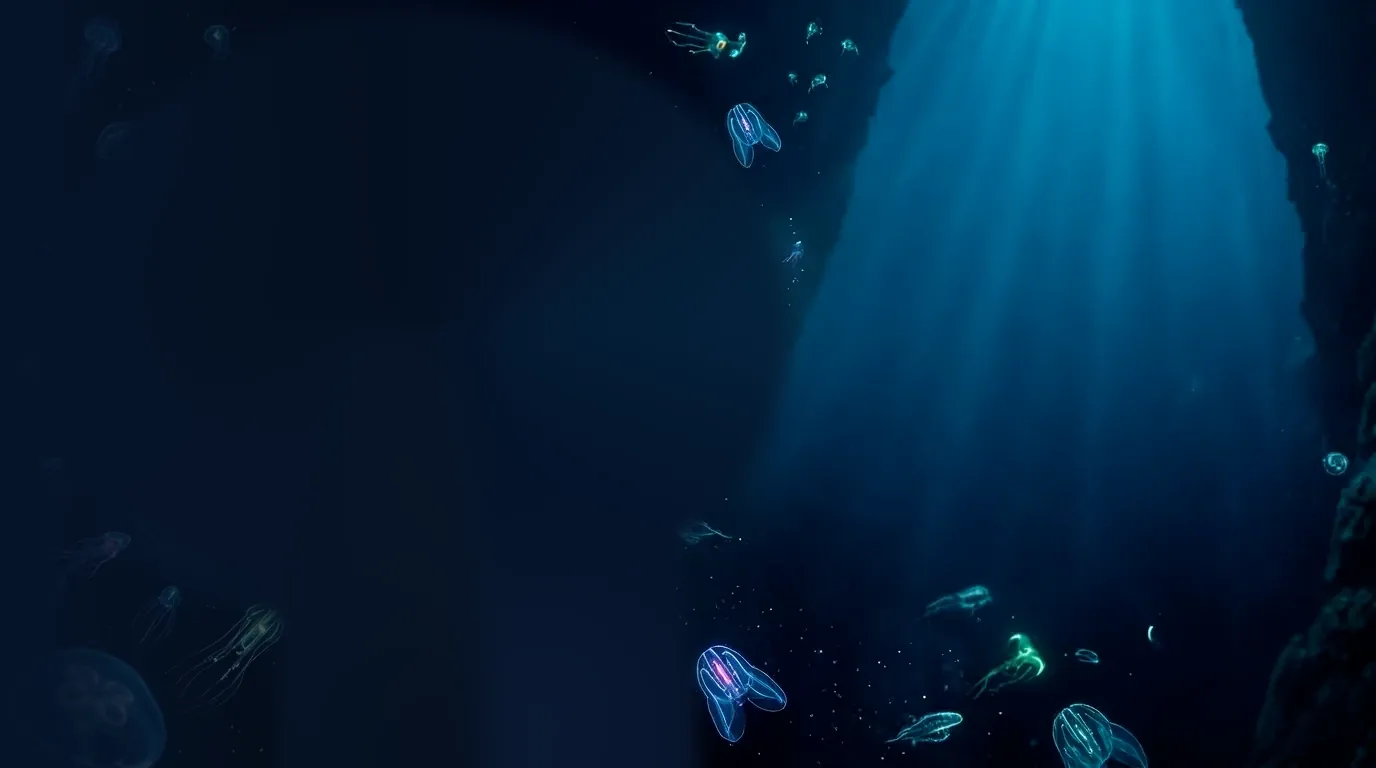
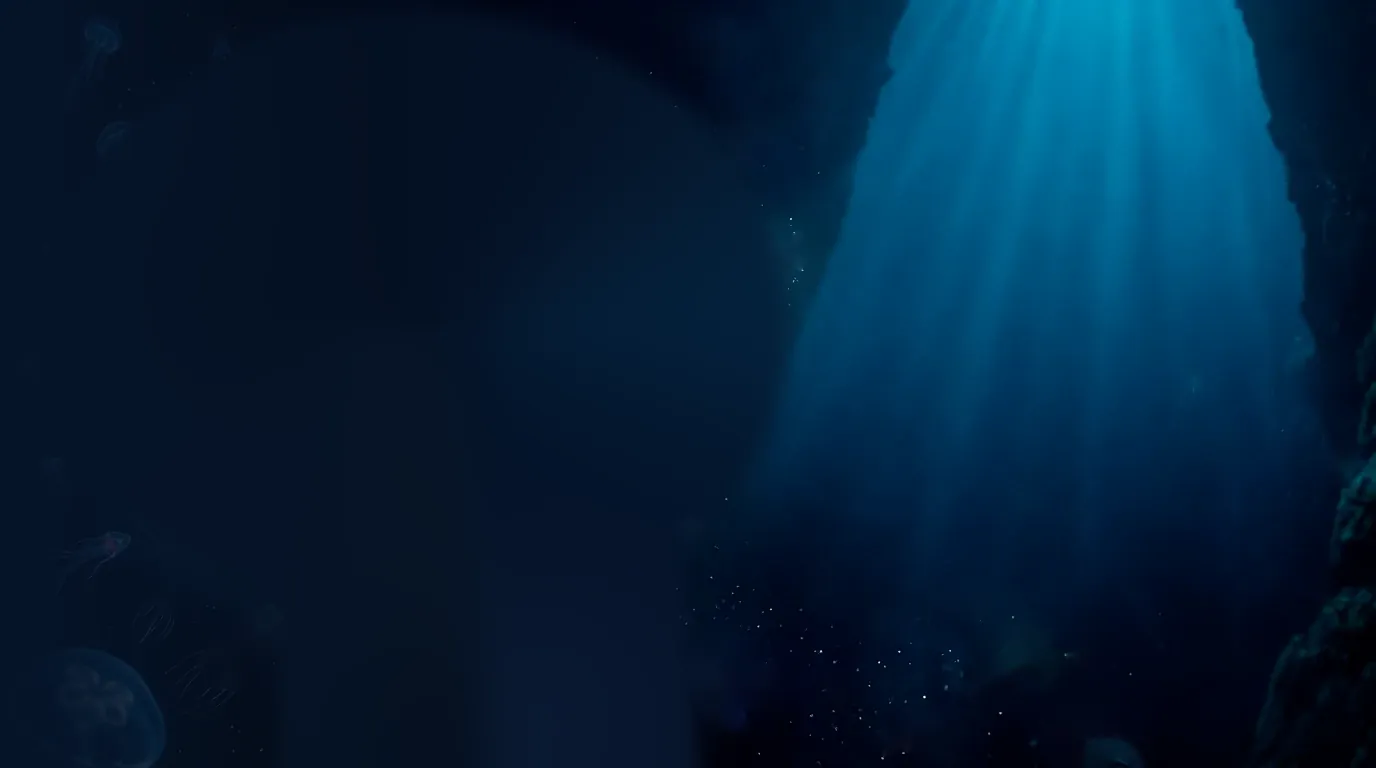
Catalog header: the background's sea life floats; a few drift in front
- The 24 small creatures painted into the background picture are lifted
  out as their own layers (assets/hero/s-*.webp) and the water is
  painted back in behind them; each drifts and rocks from where it was
- A front layer: three of them, slightly blurred, cross slowly in front
  of Marley's jellyfish and the diver

Claude-Session: https://claude.ai/code/session_0195hiXiVZY5DpQ2CCYEr2vL

diff --git a/index.html b/index.html
@@ -4,7 +4,7 @@
 <meta charset="UTF-8">
 <meta name="viewport" content="width=device-width, initial-scale=1">
 <title>Parts Catalog — Christian Gehrke</title>
-<link rel="stylesheet" href="css/catalog.css?v=1793680000">
+<link rel="stylesheet" href="css/catalog.css?v=1793690000">
 <link rel="stylesheet" href="css/logo.css?v=6">
 <link rel="icon" href="/favicon.ico?v=2" sizes="any"><link rel="icon" href="/favicon.svg?v=2" type="image/svg+xml"><link rel="apple-touch-icon" href="/apple-touch-icon.png?v=2">
 <script>/* Logo season from the calendar (the homepage sets it from its own scene). */document.documentElement.dataset.season=["winter","winter","spring","spring","spring","summer","summer","summer","fall","fall","fall","winter"][new Date().getMonth()];</script>
@@ -13,7 +13,7 @@
 <body class="deep">
 
 <header class="cat-head cat-hero">
-  <div class="hero-stage" aria-hidden="true"><div class="hero-sea"></div><div class="hero-shaft"></div><span class="hero-critter hc-fish hc-far"><span class="hc-lure"></span><img src="assets/hero/c-fish.webp" alt=""><img class="hc-glow" src="assets/hero/c-fish-glow.webp" alt=""></span><span class="hero-critter hc-larva hc-far"><img src="assets/hero/c-larva.webp" alt=""><img class="hc-glow" src="assets/hero/c-larva-glow.webp" alt=""></span><span class="hero-critter hc-comb hc-far"><img src="assets/hero/c-comb.webp" alt=""><img class="hc-glow" src="assets/hero/c-comb-glow.webp" alt=""></span><span class="hero-critter hc-moon hc-far"><img src="assets/hero/c-moon.webp" alt=""><img class="hc-glow" src="assets/hero/c-moon-glow.webp" alt=""></span><span class="hero-critter hc-blue hc-far"><img src="assets/hero/c-blue.webp" alt=""><img class="hc-glow" src="assets/hero/c-blue-glow.webp" alt=""></span><svg class="hero-snow-l"><g class="hero-snow" fill="#cfefff"><circle cx="61.1%" cy="4.3%" r="1.0" style="animation-duration:22.1s;animation-delay:-15.3s"/><circle cx="77.5%" cy="8.7%" r="0.9" style="animation-duration:24.4s;animation-delay:-15.2s"/><circle cx="45.1%" cy="40.2%" r="1.6" style="animation-duration:20.9s;animation-delay:-0.5s"/><circle cx="79.9%" cy="32.9%" r="1.0" style="animation-duration:16.6s;animation-delay:-11.5s"/><circle cx="32.5%" cy="8.9%" r="1.2" style="animation-duration:15.2s;animation-delay:-20.4s"/><circle cx="2.5%" cy="78.1%" r="1.4" style="animation-duration:20.0s;animation-delay:-18.4s"/><circle cx="24.8%" cy="73.8%" r="1.0" style="animation-duration:16.8s;animation-delay:-25.1s"/><circle cx="40.1%" cy="37.3%" r="1.5" style="animation-duration:18.4s;animation-delay:-17.4s"/><circle cx="17.1%" cy="84.3%" r="0.9" style="animation-duration:14.6s;animation-delay:-25.4s"/><circle cx="17.3%" cy="94.7%" r="1.6" style="animation-duration:21.3s;animation-delay:-0.3s"/><circle cx="6.1%" cy="20.9%" r="1.0" style="animation-duration:21.3s;animation-delay:-25.1s"/><circle cx="35.5%" cy="14.1%" r="1.2" style="animation-duration:15.6s;animation-delay:-2.3s"/><circle cx="55.6%" cy="69.6%" r="0.7" style="animation-duration:19.4s;animation-delay:-18.3s"/><circle cx="76.4%" cy="38.3%" r="1.5" style="animation-duration:16.0s;animation-delay:-18.6s"/><circle cx="77.2%" cy="88.0%" r="1.1" style="animation-duration:15.2s;animation-delay:-1.3s"/><circle cx="52.9%" cy="17.3%" r="1.2" style="animation-duration:15.0s;animation-delay:-20.3s"/><circle cx="22.2%" cy="1.3%" r="0.8" style="animation-duration:19.5s;animation-delay:-14.5s"/><circle cx="38.8%" cy="17.3%" r="1.1" style="animation-duration:25.4s;animation-delay:-13.9s"/><circle cx="94.1%" cy="2.9%" r="1.6" style="animation-duration:24.7s;animation-delay:-14.2s"/><circle cx="52.3%" cy="53.7%" r="1.5" style="animation-duration:14.8s;animation-delay:-16.7s"/><circle cx="54.2%" cy="30.0%" r="1.3" style="animation-duration:22.6s;animation-delay:-2.7s"/><circle cx="70.0%" cy="45.4%" r="1.1" style="animation-duration:21.6s;animation-delay:-1.4s"/><circle cx="60.3%" cy="37.3%" r="1.5" style="animation-duration:16.8s;animation-delay:-21.4s"/><circle cx="73.0%" cy="62.5%" r="1.5" style="animation-duration:14.4s;animation-delay:-15.5s"/><circle cx="61.3%" cy="67.8%" r="1.0" style="animation-duration:14.8s;animation-delay:-4.9s"/><circle cx="60.8%" cy="18.1%" r="0.7" style="animation-duration:18.3s;animation-delay:-12.2s"/><circle cx="53.6%" cy="2.6%" r="1.4" style="animation-duration:18.0s;animation-delay:-20.4s"/><circle cx="0.9%" cy="95.4%" r="1.2" style="animation-duration:25.7s;animation-delay:-25.6s"/><circle cx="83.3%" cy="10.6%" r="0.9" style="animation-duration:16.8s;animation-delay:-20.3s"/><circle cx="19.2%" cy="22.1%" r="0.7" style="animation-duration:15.4s;animation-delay:-24.4s"/><circle cx="97.6%" cy="37.2%" r="1.3" style="animation-duration:19.6s;animation-delay:-13.6s"/><circle cx="36.9%" cy="63.5%" r="0.8" style="animation-duration:17.1s;animation-delay:-13.5s"/><circle cx="19.7%" cy="43.9%" r="1.5" style="animation-duration:14.3s;animation-delay:-2.7s"/><circle cx="80.0%" cy="5.8%" r="0.9" style="animation-duration:24.2s;animation-delay:-15.7s"/><circle cx="22.1%" cy="5.9%" r="0.9" style="animation-duration:17.6s;animation-delay:-20.8s"/><circle cx="97.6%" cy="78.6%" r="1.5" style="animation-duration:25.2s;animation-delay:-22.8s"/><circle cx="92.0%" cy="96.8%" r="0.7" style="animation-duration:17.8s;animation-delay:-6.4s"/><circle cx="60.4%" cy="49.2%" r="0.9" style="animation-duration:24.0s;animation-delay:-10.4s"/><circle cx="20.9%" cy="27.6%" r="1.1" style="animation-duration:21.3s;animation-delay:-14.8s"/><circle cx="44.0%" cy="18.6%" r="1.0" style="animation-duration:17.9s;animation-delay:-4.4s"/><circle cx="54.4%" cy="18.9%" r="1.3" style="animation-duration:21.9s;animation-delay:-3.6s"/><circle cx="62.5%" cy="33.8%" r="1.0" style="animation-duration:21.3s;animation-delay:-19.8s"/><circle cx="88.4%" cy="73.4%" r="0.8" style="animation-duration:20.5s;animation-delay:-8.7s"/><circle cx="1.9%" cy="55.2%" r="1.1" style="animation-duration:24.4s;animation-delay:-8.4s"/><circle cx="83.4%" cy="51.4%" r="0.7" style="animation-duration:22.6s;animation-delay:-7.4s"/><circle cx="53.4%" cy="7.1%" r="0.6" style="animation-duration:25.1s;animation-delay:-1.1s"/><circle cx="14.9%" cy="16.3%" r="0.7" style="animation-duration:23.9s;animation-delay:-25.9s"/><circle cx="64.9%" cy="39.5%" r="1.5" style="animation-duration:20.1s;animation-delay:-3.5s"/><circle cx="69.0%" cy="35.9%" r="0.9" style="animation-duration:17.8s;animation-delay:-10.0s"/><circle cx="18.2%" cy="61.3%" r="1.5" style="animation-duration:20.8s;animation-delay:-0.2s"/><circle cx="68.4%" cy="2.0%" r="1.1" style="animation-duration:24.4s;animation-delay:-17.6s"/><circle cx="90.8%" cy="75.5%" r="0.9" style="animation-duration:15.7s;animation-delay:-11.7s"/><circle cx="68.0%" cy="23.2%" r="0.9" style="animation-duration:23.0s;animation-delay:-9.0s"/><circle cx="60.1%" cy="54.5%" r="1.5" style="animation-duration:14.3s;animation-delay:-4.8s"/><circle cx="77.9%" cy="66.9%" r="0.7" style="animation-duration:15.6s;animation-delay:-5.5s"/><circle cx="54.3%" cy="90.2%" r="0.8" style="animation-duration:16.4s;animation-delay:-17.8s"/><circle cx="42.3%" cy="84.7%" r="1.6" style="animation-duration:25.2s;animation-delay:-18.6s"/><circle cx="49.6%" cy="6.1%" r="1.4" style="animation-duration:18.8s;animation-delay:-12.1s"/><circle cx="63.2%" cy="96.4%" r="1.2" style="animation-duration:25.0s;animation-delay:-25.1s"/><circle cx="8.5%" cy="35.5%" r="1.5" style="animation-duration:23.2s;animation-delay:-25.2s"/><circle cx="18.6%" cy="53.1%" r="1.5" style="animation-duration:20.5s;animation-delay:-17.4s"/><circle cx="97.5%" cy="17.3%" r="0.7" style="animation-duration:24.2s;animation-delay:-15.1s"/><circle cx="20.0%" cy="83.2%" r="0.9" style="animation-duration:15.6s;animation-delay:-7.7s"/><circle cx="3.6%" cy="40.6%" r="1.4" style="animation-duration:19.4s;animation-delay:-25.1s"/><circle cx="4.2%" cy="17.3%" r="0.7" style="animation-duration:20.9s;animation-delay:-5.2s"/><circle cx="66.7%" cy="52.3%" r="1.2" style="animation-duration:24.1s;animation-delay:-20.5s"/><circle cx="92.2%" cy="15.2%" r="1.0" style="animation-duration:25.5s;animation-delay:-10.3s"/><circle cx="28.6%" cy="48.2%" r="0.8" style="animation-duration:24.2s;animation-delay:-16.5s"/><circle cx="9.5%" cy="96.4%" r="1.1" style="animation-duration:17.0s;animation-delay:-15.9s"/><circle cx="95.0%" cy="34.7%" r="0.6" style="animation-duration:16.4s;animation-delay:-1.5s"/></g></svg><span class="hero-critter hc-fish"><span class="hc-lure"></span><img src="assets/hero/c-fish.webp" alt=""><img class="hc-glow" src="assets/hero/c-fish-glow.webp" alt=""></span><span class="hero-critter hc-larva"><img src="assets/hero/c-larva.webp" alt=""><img class="hc-glow" src="assets/hero/c-larva-glow.webp" alt=""></span><span class="hero-critter hc-comb"><img src="assets/hero/c-comb.webp" alt=""><img class="hc-glow" src="assets/hero/c-comb-glow.webp" alt=""></span><span class="hero-critter hc-moon"><img src="assets/hero/c-moon.webp" alt=""><img class="hc-glow" src="assets/hero/c-moon-glow.webp" alt=""></span><span class="hero-critter hc-blue"><img src="assets/hero/c-blue.webp" alt=""><img class="hc-glow" src="assets/hero/c-blue-glow.webp" alt=""></span><div class="hero-group hero-g-a hero-float"><svg class="hero-fx" viewBox="160 0 730 768" overflow="visible"><defs><radialGradient id="hLamp"><stop offset="0" stop-color="#eaf8ff" stop-opacity=".9"/><stop offset=".35" stop-color="#8fd8ff" stop-opacity=".4"/><stop offset="1" stop-color="#3aa0ff" stop-opacity="0"/></radialGradient><radialGradient id="hCube"><stop offset="0" stop-color="#c58bff" stop-opacity=".75"/><stop offset=".45" stop-color="#6fd6ff" stop-opacity=".3"/><stop offset="1" stop-color="#5a3cff" stop-opacity="0"/></radialGradient><radialGradient id="hJelly"><stop offset="0" stop-color="#7fffe0" stop-opacity=".42"/><stop offset=".6" stop-color="#2fd0c8" stop-opacity=".18"/><stop offset="1" stop-color="#0a8fb0" stop-opacity="0"/></radialGradient></defs><circle class="hero-glow hero-g-jelly" cx="538" cy="318" r="330" fill="url(#hJelly)"/></svg><img class="hero-jelly" src="assets/hero/jelly.webp?v=2" alt=""><img class="hero-dog" src="assets/hero/dog.webp" alt=""><svg class="hero-fx" viewBox="160 0 730 768" overflow="visible"><g fill="none" stroke="#bfeeff" stroke-width="1.6" opacity=".8"><circle class="hero-bub" cx="437" cy="70" r="2.8" style="--sw:-10px;animation-duration:8.9s;animation-delay:-0.9s"/><circle class="hero-bub" cx="464" cy="70" r="3.9" style="--sw:10px;animation-duration:9.2s;animation-delay:-0.4s"/><circle class="hero-bub" cx="562" cy="70" r="3.4" style="--sw:-10px;animation-duration:9.6s;animation-delay:-7.5s"/><circle class="hero-bub" cx="451" cy="70" r="3.7" style="--sw:-10px;animation-duration:8.2s;animation-delay:-9.1s"/></g></svg></div><div class="hero-group hero-g-b hero-diver"><img src="assets/hero/diver.webp" alt=""><img src="assets/hero/cube.webp" alt=""><svg class="hero-fx" viewBox="735 60 615 600" overflow="visible"><circle class="hero-glow hero-g-lamp" cx="920" cy="165" r="95" fill="url(#hLamp)"/><circle class="hero-glow hero-g-lamp2" cx="1158" cy="290" r="88" fill="url(#hLamp)"/><circle class="hero-glow hero-g-cube" cx="875" cy="520" r="150" fill="url(#hCube)"/><g fill="none" stroke="#bfeeff" stroke-width="1.6" opacity=".85"><circle class="hero-bub" cx="1014" cy="92" r="5.1" style="--sw:-14px;animation-duration:5.8s;animation-delay:-1.5s"/><circle class="hero-bub" cx="1006" cy="92" r="4.8" style="--sw:-14px;animation-duration:7.7s;animation-delay:-0.6s"/><circle class="hero-bub" cx="1031" cy="92" r="4.3" style="--sw:14px;animation-duration:7.1s;animation-delay:-3.6s"/><circle class="hero-bub" cx="995" cy="92" r="3.6" style="--sw:-14px;animation-duration:5.2s;animation-delay:-1.1s"/><circle class="hero-bub" cx="1034" cy="92" r="5.4" style="--sw:8px;animation-duration:7.4s;animation-delay:-7.1s"/><circle class="hero-bub" cx="998" cy="92" r="5.4" style="--sw:-14px;animation-duration:7.2s;animation-delay:-3.4s"/><circle class="hero-bub" cx="1034" cy="92" r="3.9" style="--sw:-14px;animation-duration:5.6s;animation-delay:-2.2s"/><circle class="hero-bub" cx="1177" cy="108" r="4.3" style="--sw:10px;animation-duration:5.5s;animation-delay:-3.3s"/><circle class="hero-bub" cx="1196" cy="108" r="2.8" style="--sw:-10px;animation-duration:6.2s;animation-delay:-5.9s"/><circle class="hero-bub" cx="1203" cy="108" r="2.5" style="--sw:-10px;animation-duration:7.8s;animation-delay:-1.6s"/><circle class="hero-bub" cx="1186" cy="108" r="2.5" style="--sw:-10px;animation-duration:5.8s;animation-delay:-4.3s"/><circle class="hero-bub" cx="1197" cy="108" r="2.7" style="--sw:10px;animation-duration:7.0s;animation-delay:-7.4s"/></g></svg></div></div>
+  <div class="hero-stage" aria-hidden="true"><div class="hero-sea"></div><div class="hero-shaft"></div><div class="hero-seafloat"><img class="sf" src="assets/hero/s-00.webp" alt="" style="left:57.92%;top:1.30%;width:2.54%;--dx:-1.3vh;--dy:-2.6vh;--r:-4deg;animation-duration:16.8s,3.8s;animation-delay:-0.3s,-3.3s"><img class="sf" src="assets/hero/s-01.webp" alt="" style="left:47.67%;top:1.69%;width:7.19%;--dx:1.6vh;--dy:-3.4vh;--r:4deg;animation-duration:17.5s,4.5s;animation-delay:-3.0s,-0.6s"><img class="sf" src="assets/hero/s-02.webp" alt="" style="left:14.24%;top:2.08%;width:2.91%;--dx:1.4vh;--dy:-1.6vh;--r:4deg;animation-duration:16.6s,6.3s;animation-delay:-3.2s,-1.9s"><img class="sf" src="assets/hero/s-03.webp" alt="" style="left:60.47%;top:3.91%;width:2.62%;--dx:0.7vh;--dy:-1.5vh;--r:4deg;animation-duration:21.5s,3.8s;animation-delay:-13.0s,-4.0s"><img class="sf" src="assets/hero/s-04.webp" alt="" style="left:56.61%;top:8.20%;width:1.96%;--dx:-1.0vh;--dy:-2.4vh;--r:-6deg;animation-duration:20.1s,6.8s;animation-delay:-16.4s,-5.7s"><img class="sf" src="assets/hero/s-05.webp" alt="" style="left:58.07%;top:8.46%;width:2.76%;--dx:-1.6vh;--dy:-2.8vh;--r:4deg;animation-duration:24.1s,6.5s;animation-delay:-12.2s,-2.5s"><img class="sf" src="assets/hero/s-06.webp" alt="" style="left:52.18%;top:12.24%;width:5.31%;--dx:-0.2vh;--dy:-3.1vh;--r:4deg;animation-duration:21.2s,4.4s;animation-delay:-16.9s,-0.5s"><img class="sf" src="assets/hero/s-07.webp" alt="" style="left:56.98%;top:13.28%;width:2.40%;--dx:1.6vh;--dy:-2.3vh;--r:6deg;animation-duration:19.6s,6.0s;animation-delay:-2.8s,-4.0s"><img class="sf" src="assets/hero/s-08.webp" alt="" style="left:94.69%;top:17.45%;width:2.54%;--dx:1.3vh;--dy:-2.0vh;--r:6deg;animation-duration:14.8s,4.5s;animation-delay:-5.3s,-4.5s"><img class="sf" src="assets/hero/s-09.webp" alt="" style="left:92.51%;top:18.88%;width:1.67%;--dx:0.2vh;--dy:-1.4vh;--r:-6deg;animation-duration:17.8s,6.4s;animation-delay:-12.6s,-1.7s"><img class="sf" src="assets/hero/s-10.webp" alt="" style="left:56.18%;top:30.21%;width:2.83%;--dx:1.2vh;--dy:-3.2vh;--r:-4deg;animation-duration:21.0s,4.5s;animation-delay:-0.5s,-2.1s"><img class="sf" src="assets/hero/s-11.webp" alt="" style="left:95.42%;top:57.68%;width:3.27%;--dx:1.5vh;--dy:-2.8vh;--r:4deg;animation-duration:15.0s,3.6s;animation-delay:-4.3s,-5.8s"><img class="sf" src="assets/hero/s-12.webp" alt="" style="left:49.06%;top:66.80%;width:4.87%;--dx:-0.3vh;--dy:-1.3vh;--r:-6deg;animation-duration:23.3s,4.5s;animation-delay:-4.5s,-2.7s"><img class="sf" src="assets/hero/s-13.webp" alt="" style="left:95.71%;top:72.27%;width:1.89%;--dx:-0.4vh;--dy:-1.3vh;--r:4deg;animation-duration:15.6s,5.5s;animation-delay:-5.7s,-2.7s"><img class="sf" src="assets/hero/s-14.webp" alt="" style="left:66.72%;top:75.00%;width:6.03%;--dx:1.0vh;--dy:-1.2vh;--r:-6deg;animation-duration:18.4s,5.0s;animation-delay:-3.8s,-5.5s"><img class="sf" src="assets/hero/s-15.webp" alt="" style="left:10.90%;top:75.39%;width:2.54%;--dx:-1.4vh;--dy:-1.8vh;--r:-4deg;animation-duration:15.4s,5.6s;animation-delay:-8.4s,-3.5s"><img class="sf" src="assets/hero/s-16.webp" alt="" style="left:14.24%;top:77.86%;width:6.61%;--dx:-1.5vh;--dy:-1.6vh;--r:4deg;animation-duration:17.9s,6.2s;animation-delay:-7.3s,-5.9s"><img class="sf" src="assets/hero/s-17.webp" alt="" style="left:82.70%;top:80.21%;width:1.82%;--dx:-0.8vh;--dy:-2.6vh;--r:-6deg;animation-duration:19.7s,4.3s;animation-delay:-8.8s,-3.9s"><img class="sf" src="assets/hero/s-18.webp" alt="" style="left:70.20%;top:81.12%;width:6.47%;--dx:-0.9vh;--dy:-3.1vh;--r:-6deg;animation-duration:19.1s,4.4s;animation-delay:-4.6s,-1.2s"><img class="sf" src="assets/hero/s-19.webp" alt="" style="left:49.93%;top:82.29%;width:7.99%;--dx:1.2vh;--dy:-3.2vh;--r:-6deg;animation-duration:16.8s,6.6s;animation-delay:-5.3s,-0.7s"><img class="sf" src="assets/hero/s-20.webp" alt="" style="left:77.40%;top:83.33%;width:3.12%;--dx:1.5vh;--dy:-2.0vh;--r:-6deg;animation-duration:20.8s,5.2s;animation-delay:-1.9s,-1.3s"><img class="sf" src="assets/hero/s-21.webp" alt="" style="left:59.96%;top:87.76%;width:1.89%;--dx:1.3vh;--dy:-1.4vh;--r:4deg;animation-duration:24.5s,4.5s;animation-delay:-11.5s,-5.4s"><img class="sf" src="assets/hero/s-22.webp" alt="" style="left:75.80%;top:90.36%;width:8.28%;--dx:-0.3vh;--dy:-3.0vh;--r:4deg;animation-duration:17.8s,4.7s;animation-delay:-7.0s,-3.0s"><img class="sf" src="assets/hero/s-23.webp" alt="" style="left:63.66%;top:91.41%;width:7.05%;--dx:-0.7vh;--dy:-2.1vh;--r:-4deg;animation-duration:24.3s,3.7s;animation-delay:-21.8s,-0.8s"></div><span class="hero-critter hc-fish hc-far"><span class="hc-lure"></span><img src="assets/hero/c-fish.webp" alt=""><img class="hc-glow" src="assets/hero/c-fish-glow.webp" alt=""></span><span class="hero-critter hc-larva hc-far"><img src="assets/hero/c-larva.webp" alt=""><img class="hc-glow" src="assets/hero/c-larva-glow.webp" alt=""></span><span class="hero-critter hc-comb hc-far"><img src="assets/hero/c-comb.webp" alt=""><img class="hc-glow" src="assets/hero/c-comb-glow.webp" alt=""></span><span class="hero-critter hc-moon hc-far"><img src="assets/hero/c-moon.webp" alt=""><img class="hc-glow" src="assets/hero/c-moon-glow.webp" alt=""></span><span class="hero-critter hc-blue hc-far"><img src="assets/hero/c-blue.webp" alt=""><img class="hc-glow" src="assets/hero/c-blue-glow.webp" alt=""></span><svg class="hero-snow-l"><g class="hero-snow" fill="#cfefff"><circle cx="61.1%" cy="4.3%" r="1.0" style="animation-duration:22.1s;animation-delay:-15.3s"/><circle cx="77.5%" cy="8.7%" r="0.9" style="animation-duration:24.4s;animation-delay:-15.2s"/><circle cx="45.1%" cy="40.2%" r="1.6" style="animation-duration:20.9s;animation-delay:-0.5s"/><circle cx="79.9%" cy="32.9%" r="1.0" style="animation-duration:16.6s;animation-delay:-11.5s"/><circle cx="32.5%" cy="8.9%" r="1.2" style="animation-duration:15.2s;animation-delay:-20.4s"/><circle cx="2.5%" cy="78.1%" r="1.4" style="animation-duration:20.0s;animation-delay:-18.4s"/><circle cx="24.8%" cy="73.8%" r="1.0" style="animation-duration:16.8s;animation-delay:-25.1s"/><circle cx="40.1%" cy="37.3%" r="1.5" style="animation-duration:18.4s;animation-delay:-17.4s"/><circle cx="17.1%" cy="84.3%" r="0.9" style="animation-duration:14.6s;animation-delay:-25.4s"/><circle cx="17.3%" cy="94.7%" r="1.6" style="animation-duration:21.3s;animation-delay:-0.3s"/><circle cx="6.1%" cy="20.9%" r="1.0" style="animation-duration:21.3s;animation-delay:-25.1s"/><circle cx="35.5%" cy="14.1%" r="1.2" style="animation-duration:15.6s;animation-delay:-2.3s"/><circle cx="55.6%" cy="69.6%" r="0.7" style="animation-duration:19.4s;animation-delay:-18.3s"/><circle cx="76.4%" cy="38.3%" r="1.5" style="animation-duration:16.0s;animation-delay:-18.6s"/><circle cx="77.2%" cy="88.0%" r="1.1" style="animation-duration:15.2s;animation-delay:-1.3s"/><circle cx="52.9%" cy="17.3%" r="1.2" style="animation-duration:15.0s;animation-delay:-20.3s"/><circle cx="22.2%" cy="1.3%" r="0.8" style="animation-duration:19.5s;animation-delay:-14.5s"/><circle cx="38.8%" cy="17.3%" r="1.1" style="animation-duration:25.4s;animation-delay:-13.9s"/><circle cx="94.1%" cy="2.9%" r="1.6" style="animation-duration:24.7s;animation-delay:-14.2s"/><circle cx="52.3%" cy="53.7%" r="1.5" style="animation-duration:14.8s;animation-delay:-16.7s"/><circle cx="54.2%" cy="30.0%" r="1.3" style="animation-duration:22.6s;animation-delay:-2.7s"/><circle cx="70.0%" cy="45.4%" r="1.1" style="animation-duration:21.6s;animation-delay:-1.4s"/><circle cx="60.3%" cy="37.3%" r="1.5" style="animation-duration:16.8s;animation-delay:-21.4s"/><circle cx="73.0%" cy="62.5%" r="1.5" style="animation-duration:14.4s;animation-delay:-15.5s"/><circle cx="61.3%" cy="67.8%" r="1.0" style="animation-duration:14.8s;animation-delay:-4.9s"/><circle cx="60.8%" cy="18.1%" r="0.7" style="animation-duration:18.3s;animation-delay:-12.2s"/><circle cx="53.6%" cy="2.6%" r="1.4" style="animation-duration:18.0s;animation-delay:-20.4s"/><circle cx="0.9%" cy="95.4%" r="1.2" style="animation-duration:25.7s;animation-delay:-25.6s"/><circle cx="83.3%" cy="10.6%" r="0.9" style="animation-duration:16.8s;animation-delay:-20.3s"/><circle cx="19.2%" cy="22.1%" r="0.7" style="animation-duration:15.4s;animation-delay:-24.4s"/><circle cx="97.6%" cy="37.2%" r="1.3" style="animation-duration:19.6s;animation-delay:-13.6s"/><circle cx="36.9%" cy="63.5%" r="0.8" style="animation-duration:17.1s;animation-delay:-13.5s"/><circle cx="19.7%" cy="43.9%" r="1.5" style="animation-duration:14.3s;animation-delay:-2.7s"/><circle cx="80.0%" cy="5.8%" r="0.9" style="animation-duration:24.2s;animation-delay:-15.7s"/><circle cx="22.1%" cy="5.9%" r="0.9" style="animation-duration:17.6s;animation-delay:-20.8s"/><circle cx="97.6%" cy="78.6%" r="1.5" style="animation-duration:25.2s;animation-delay:-22.8s"/><circle cx="92.0%" cy="96.8%" r="0.7" style="animation-duration:17.8s;animation-delay:-6.4s"/><circle cx="60.4%" cy="49.2%" r="0.9" style="animation-duration:24.0s;animation-delay:-10.4s"/><circle cx="20.9%" cy="27.6%" r="1.1" style="animation-duration:21.3s;animation-delay:-14.8s"/><circle cx="44.0%" cy="18.6%" r="1.0" style="animation-duration:17.9s;animation-delay:-4.4s"/><circle cx="54.4%" cy="18.9%" r="1.3" style="animation-duration:21.9s;animation-delay:-3.6s"/><circle cx="62.5%" cy="33.8%" r="1.0" style="animation-duration:21.3s;animation-delay:-19.8s"/><circle cx="88.4%" cy="73.4%" r="0.8" style="animation-duration:20.5s;animation-delay:-8.7s"/><circle cx="1.9%" cy="55.2%" r="1.1" style="animation-duration:24.4s;animation-delay:-8.4s"/><circle cx="83.4%" cy="51.4%" r="0.7" style="animation-duration:22.6s;animation-delay:-7.4s"/><circle cx="53.4%" cy="7.1%" r="0.6" style="animation-duration:25.1s;animation-delay:-1.1s"/><circle cx="14.9%" cy="16.3%" r="0.7" style="animation-duration:23.9s;animation-delay:-25.9s"/><circle cx="64.9%" cy="39.5%" r="1.5" style="animation-duration:20.1s;animation-delay:-3.5s"/><circle cx="69.0%" cy="35.9%" r="0.9" style="animation-duration:17.8s;animation-delay:-10.0s"/><circle cx="18.2%" cy="61.3%" r="1.5" style="animation-duration:20.8s;animation-delay:-0.2s"/><circle cx="68.4%" cy="2.0%" r="1.1" style="animation-duration:24.4s;animation-delay:-17.6s"/><circle cx="90.8%" cy="75.5%" r="0.9" style="animation-duration:15.7s;animation-delay:-11.7s"/><circle cx="68.0%" cy="23.2%" r="0.9" style="animation-duration:23.0s;animation-delay:-9.0s"/><circle cx="60.1%" cy="54.5%" r="1.5" style="animation-duration:14.3s;animation-delay:-4.8s"/><circle cx="77.9%" cy="66.9%" r="0.7" style="animation-duration:15.6s;animation-delay:-5.5s"/><circle cx="54.3%" cy="90.2%" r="0.8" style="animation-duration:16.4s;animation-delay:-17.8s"/><circle cx="42.3%" cy="84.7%" r="1.6" style="animation-duration:25.2s;animation-delay:-18.6s"/><circle cx="49.6%" cy="6.1%" r="1.4" style="animation-duration:18.8s;animation-delay:-12.1s"/><circle cx="63.2%" cy="96.4%" r="1.2" style="animation-duration:25.0s;animation-delay:-25.1s"/><circle cx="8.5%" cy="35.5%" r="1.5" style="animation-duration:23.2s;animation-delay:-25.2s"/><circle cx="18.6%" cy="53.1%" r="1.5" style="animation-duration:20.5s;animation-delay:-17.4s"/><circle cx="97.5%" cy="17.3%" r="0.7" style="animation-duration:24.2s;animation-delay:-15.1s"/><circle cx="20.0%" cy="83.2%" r="0.9" style="animation-duration:15.6s;animation-delay:-7.7s"/><circle cx="3.6%" cy="40.6%" r="1.4" style="animation-duration:19.4s;animation-delay:-25.1s"/><circle cx="4.2%" cy="17.3%" r="0.7" style="animation-duration:20.9s;animation-delay:-5.2s"/><circle cx="66.7%" cy="52.3%" r="1.2" style="animation-duration:24.1s;animation-delay:-20.5s"/><circle cx="92.2%" cy="15.2%" r="1.0" style="animation-duration:25.5s;animation-delay:-10.3s"/><circle cx="28.6%" cy="48.2%" r="0.8" style="animation-duration:24.2s;animation-delay:-16.5s"/><circle cx="9.5%" cy="96.4%" r="1.1" style="animation-duration:17.0s;animation-delay:-15.9s"/><circle cx="95.0%" cy="34.7%" r="0.6" style="animation-duration:16.4s;animation-delay:-1.5s"/></g></svg><span class="hero-critter hc-fish"><span class="hc-lure"></span><img src="assets/hero/c-fish.webp" alt=""><img class="hc-glow" src="assets/hero/c-fish-glow.webp" alt=""></span><span class="hero-critter hc-larva"><img src="assets/hero/c-larva.webp" alt=""><img class="hc-glow" src="assets/hero/c-larva-glow.webp" alt=""></span><span class="hero-critter hc-comb"><img src="assets/hero/c-comb.webp" alt=""><img class="hc-glow" src="assets/hero/c-comb-glow.webp" alt=""></span><span class="hero-critter hc-moon"><img src="assets/hero/c-moon.webp" alt=""><img class="hc-glow" src="assets/hero/c-moon-glow.webp" alt=""></span><span class="hero-critter hc-blue"><img src="assets/hero/c-blue.webp" alt=""><img class="hc-glow" src="assets/hero/c-blue-glow.webp" alt=""></span><div class="hero-group hero-g-a hero-float"><svg class="hero-fx" viewBox="160 0 730 768" overflow="visible"><defs><radialGradient id="hLamp"><stop offset="0" stop-color="#eaf8ff" stop-opacity=".9"/><stop offset=".35" stop-color="#8fd8ff" stop-opacity=".4"/><stop offset="1" stop-color="#3aa0ff" stop-opacity="0"/></radialGradient><radialGradient id="hCube"><stop offset="0" stop-color="#c58bff" stop-opacity=".75"/><stop offset=".45" stop-color="#6fd6ff" stop-opacity=".3"/><stop offset="1" stop-color="#5a3cff" stop-opacity="0"/></radialGradient><radialGradient id="hJelly"><stop offset="0" stop-color="#7fffe0" stop-opacity=".42"/><stop offset=".6" stop-color="#2fd0c8" stop-opacity=".18"/><stop offset="1" stop-color="#0a8fb0" stop-opacity="0"/></radialGradient></defs><circle class="hero-glow hero-g-jelly" cx="538" cy="318" r="330" fill="url(#hJelly)"/></svg><img class="hero-jelly" src="assets/hero/jelly.webp?v=2" alt=""><img class="hero-dog" src="assets/hero/dog.webp" alt=""><svg class="hero-fx" viewBox="160 0 730 768" overflow="visible"><g fill="none" stroke="#bfeeff" stroke-width="1.6" opacity=".8"><circle class="hero-bub" cx="437" cy="70" r="2.8" style="--sw:-10px;animation-duration:8.9s;animation-delay:-0.9s"/><circle class="hero-bub" cx="464" cy="70" r="3.9" style="--sw:10px;animation-duration:9.2s;animation-delay:-0.4s"/><circle class="hero-bub" cx="562" cy="70" r="3.4" style="--sw:-10px;animation-duration:9.6s;animation-delay:-7.5s"/><circle class="hero-bub" cx="451" cy="70" r="3.7" style="--sw:-10px;animation-duration:8.2s;animation-delay:-9.1s"/></g></svg></div><div class="hero-group hero-g-b hero-diver"><img src="assets/hero/diver.webp" alt=""><img src="assets/hero/cube.webp" alt=""><svg class="hero-fx" viewBox="735 60 615 600" overflow="visible"><circle class="hero-glow hero-g-lamp" cx="920" cy="165" r="95" fill="url(#hLamp)"/><circle class="hero-glow hero-g-lamp2" cx="1158" cy="290" r="88" fill="url(#hLamp)"/><circle class="hero-glow hero-g-cube" cx="875" cy="520" r="150" fill="url(#hCube)"/><g fill="none" stroke="#bfeeff" stroke-width="1.6" opacity=".85"><circle class="hero-bub" cx="1014" cy="92" r="5.1" style="--sw:-14px;animation-duration:5.8s;animation-delay:-1.5s"/><circle class="hero-bub" cx="1006" cy="92" r="4.8" style="--sw:-14px;animation-duration:7.7s;animation-delay:-0.6s"/><circle class="hero-bub" cx="1031" cy="92" r="4.3" style="--sw:14px;animation-duration:7.1s;animation-delay:-3.6s"/><circle class="hero-bub" cx="995" cy="92" r="3.6" style="--sw:-14px;animation-duration:5.2s;animation-delay:-1.1s"/><circle class="hero-bub" cx="1034" cy="92" r="5.4" style="--sw:8px;animation-duration:7.4s;animation-delay:-7.1s"/><circle class="hero-bub" cx="998" cy="92" r="5.4" style="--sw:-14px;animation-duration:7.2s;animation-delay:-3.4s"/><circle class="hero-bub" cx="1034" cy="92" r="3.9" style="--sw:-14px;animation-duration:5.6s;animation-delay:-2.2s"/><circle class="hero-bub" cx="1177" cy="108" r="4.3" style="--sw:10px;animation-duration:5.5s;animation-delay:-3.3s"/><circle class="hero-bub" cx="1196" cy="108" r="2.8" style="--sw:-10px;animation-duration:6.2s;animation-delay:-5.9s"/><circle class="hero-bub" cx="1203" cy="108" r="2.5" style="--sw:-10px;animation-duration:7.8s;animation-delay:-1.6s"/><circle class="hero-bub" cx="1186" cy="108" r="2.5" style="--sw:-10px;animation-duration:5.8s;animation-delay:-4.3s"/><circle class="hero-bub" cx="1197" cy="108" r="2.7" style="--sw:10px;animation-duration:7.0s;animation-delay:-7.4s"/></g></svg></div><div class="hero-front"><img class="ff ff-0" src="assets/hero/s-22.webp" alt=""><img class="ff ff-1" src="assets/hero/s-01.webp" alt=""><img class="ff ff-2" src="assets/hero/s-16.webp" alt=""></div></div>
   <div class="hero-text"><a class="cat-brand" href="../">Parts Catalog</a>
   <p class="cat-tagline">Every object the scene engine knows how to build — searchable, grouped, and demoed live with the same code that runs in production. New parts start in the <a href="workshop.html">Workshop</a>.</p></div>
 </header>

diff --git a/css/catalog.css b/css/catalog.css
@@ -421,3 +421,19 @@ body.deep{background:linear-gradient(180deg,#061429 0,#071a33 420px,#040b1a 100%
 @keyframes hc-lure{0%,62%,100%{opacity:.35;transform:scale(.8)}70%{opacity:1;transform:scale(1.15)}76%{opacity:.75;transform:scale(1)}82%{opacity:1;transform:scale(1.12)}90%{opacity:.35;transform:scale(.8)}}
 @keyframes hc-halo{0%,62%,100%{opacity:0}70%{opacity:1}76%{opacity:.6}82%{opacity:.95}92%{opacity:0}}
 @media (prefers-reduced-motion:reduce){.hc-lure::before,.hc-lure::after{animation:none}.hc-lure::before{opacity:.7}}
+
+/* The small sea life that was painted into the background picture, lifted out so it drifts:
+   each piece sits where it was and wanders a little, gently rocking. */
+.hero-seafloat{position:absolute;top:0;right:0;height:100%;aspect-ratio:1376/768;pointer-events:none;
+  -webkit-mask-image:linear-gradient(90deg,transparent 0,#000 45%);mask-image:linear-gradient(90deg,transparent 0,#000 45%)}
+.sf{position:absolute;display:block;height:auto;animation:sf-drift 20s ease-in-out infinite,sf-rock 5s ease-in-out infinite;will-change:transform}
+@keyframes sf-drift{0%,100%{translate:0 0}50%{translate:var(--dx) var(--dy)}}
+@keyframes sf-rock{0%,100%{rotate:calc(var(--r) * -1)}50%{rotate:var(--r)}}
+/* A few closer ones drift slowly across in front of everything, a touch out of focus */
+.hero-front{position:absolute;inset:0;pointer-events:none;overflow:hidden}
+.ff{position:absolute;display:block;filter:blur(1.4px);opacity:.75;animation:ff-cross linear infinite}
+.ff-0{width:calc(var(--h) * .2);top:52%;animation-duration:75s;animation-delay:-20s}
+.ff-1{width:calc(var(--h) * .13);top:8%;animation-duration:95s;animation-delay:-62s;filter:blur(2px)}
+.ff-2{width:calc(var(--h) * .11);top:70%;animation-duration:85s;animation-delay:-40s;animation-direction:reverse}
+@keyframes ff-cross{0%{transform:translate(105vw,0) rotate(-6deg)}50%{transform:translate(45vw,-18%) rotate(5deg)}100%{transform:translate(-25vw,0) rotate(-6deg)}}
+@media (prefers-reduced-motion:reduce){.sf,.ff{animation:none}.ff{display:none}}
